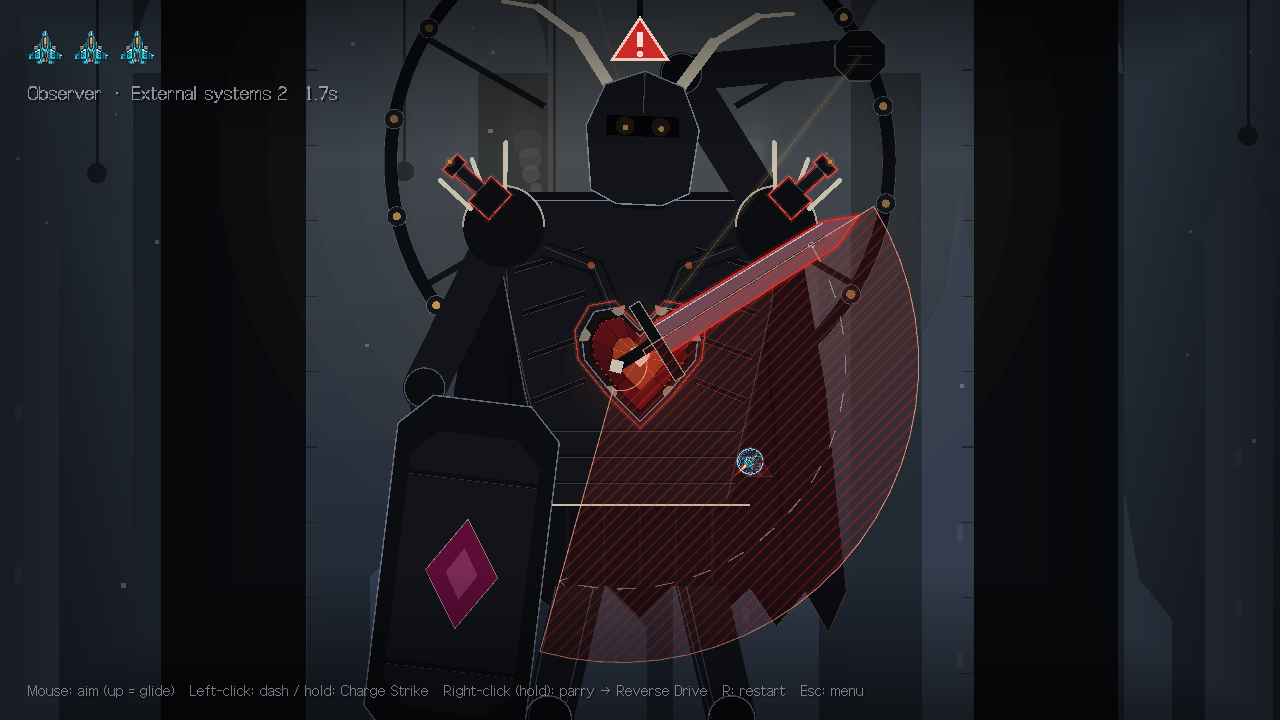
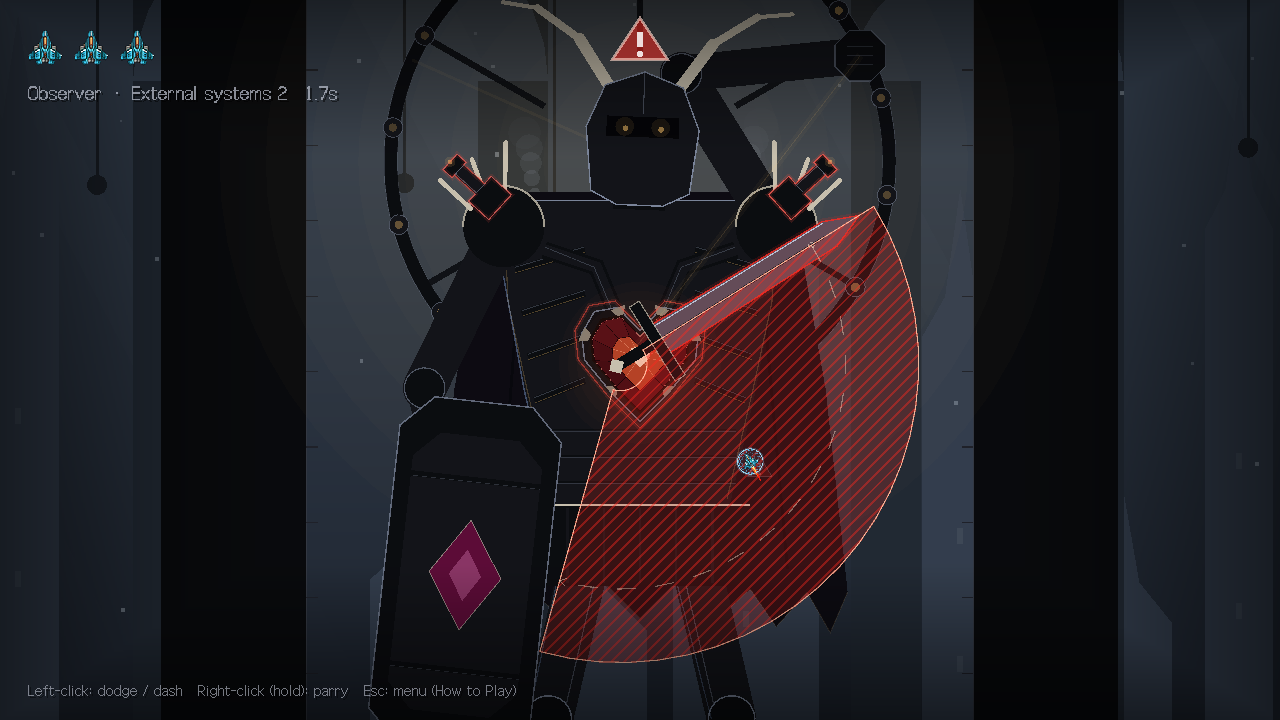
v0.102: short bottom control hint; itch materials redone
- In-game bottom hint is now just "Left-click: dodge / dash   Right-click (hold): parry   Esc: menu (How to Play)" — the details live in the tutorials and the How to Play list
- itch screenshots and cover recaptured with the new hint; devlog renamed to DEVLOG_v0.102.md (adds a line about the shorter hint); store page and upload guide point to v0.102

diff --git a/itch/DEVLOG_v0.102.md b/itch/DEVLOG_v0.102.md
@@ -1,4 +1,4 @@
-# Devlog — v0.101 (v0.62 이후 변경점)
+# Devlog — v0.102 (v0.62 이후 변경점)
 
 > 붙여 넣는 법: itch 대시보드 → *Edit game* → **Devlog** → *Create new post*. 제목과 본문을 붙여 넣고,
 > 본문 중간의 `[이미지: ...]` 자리에 `screenshots/` 의 해당 PNG 를 *Insert image* 로 넣는다 (그 줄은 지운다).
@@ -8,7 +8,7 @@
 
 ## English
 
-**Title:** v0.101 — Four colossi remade, a new pixel font, and a route map you can actually read
+**Title:** v0.102 — Four colossi remade, a new pixel font, and a route map you can actually read
 
 It's been a while since v0.62. Almost everything you look at has been redrawn: the first three colossi got new bodies and new tricks, the whole UI moved to a pixel font, and the route map and core system got their own screens.
 
@@ -73,7 +73,7 @@ It's been a while since v0.62. Almost everything you look at has been redrawn: t
 [이미지: 08_power_cores.png]
 
 ### Controls
-- **Mouse only.** Left-click to dash (hold for Charge Strike), right-click (hold) to parry and Reverse Drive. R restarts, Esc opens the menu.
+- **Mouse only.** Left-click to dash (hold for Charge Strike), right-click (hold) to parry and Reverse Drive. R restarts, Esc opens the menu. The hint at the bottom of the screen is now just the basics; the full list is under **Esc → How to Play**.
 
 Thanks for playing. Tell me which colossus felt best and which felt unfair!
 
@@ -81,7 +81,7 @@ Thanks for playing. Tell me which colossus felt best and which felt unfair!
 
 ## 한국어
 
-**제목:** v0.101 — 콜로서스 리메이크, 도트 글꼴, 새 항로도
+**제목:** v0.102 — 콜로서스 리메이크, 도트 글꼴, 새 항로도
 
 v0.62 이후 화면에 보이는 거의 모든 것을 다시 만들었습니다. 앞의 세 콜로서스는 몸과 기술이 새로 바뀌었고, UI 전체가 도트 글꼴로 바뀌었고, 항로도와 동력 코어는 각자 화면이 생겼습니다.
 
@@ -146,6 +146,6 @@ v0.62 이후 화면에 보이는 거의 모든 것을 다시 만들었습니다.
 [이미지: 08_power_cores.png]
 
 ### 조작
-- **마우스만 씁니다.** 좌클릭 = 돌진 / 꾹 = 차지 강습, 우클릭 꾹 = 패리 → 리버스 드라이브. R 재시작, Esc 메뉴.
+- **마우스만 씁니다.** 좌클릭 = 돌진 / 꾹 = 차지 강습, 우클릭 꾹 = 패리 → 리버스 드라이브. R 재시작, Esc 메뉴. 화면 아래 조작 안내는 기본만 짧게 남겼고, 전체 조작은 **Esc → 조작법**에서 볼 수 있습니다.
 
 플레이해 주셔서 고맙습니다. 어느 콜로서스가 제일 재미있었는지, 어디가 억울했는지 댓글로 알려 주세요!

diff --git a/itch/STORE_PAGE.md b/itch/STORE_PAGE.md
@@ -1,4 +1,4 @@
-# itch.io 페이지 내용 (복사해서 붙여 넣기) — v0.101
+# itch.io 페이지 내용 (복사해서 붙여 넣기) — v0.102
 
 ## 설정 값
 - **Title**: Parry Pierce
@@ -85,4 +85,4 @@ Language: pick **English / 한국어** with the flag buttons at the bottom-right
 ---
 
 ## 개발 로그 (Devlog)
-v0.101 소식은 `DEVLOG_v0.101.md` 참고.
+v0.102 소식은 `DEVLOG_v0.102.md` 참고.
